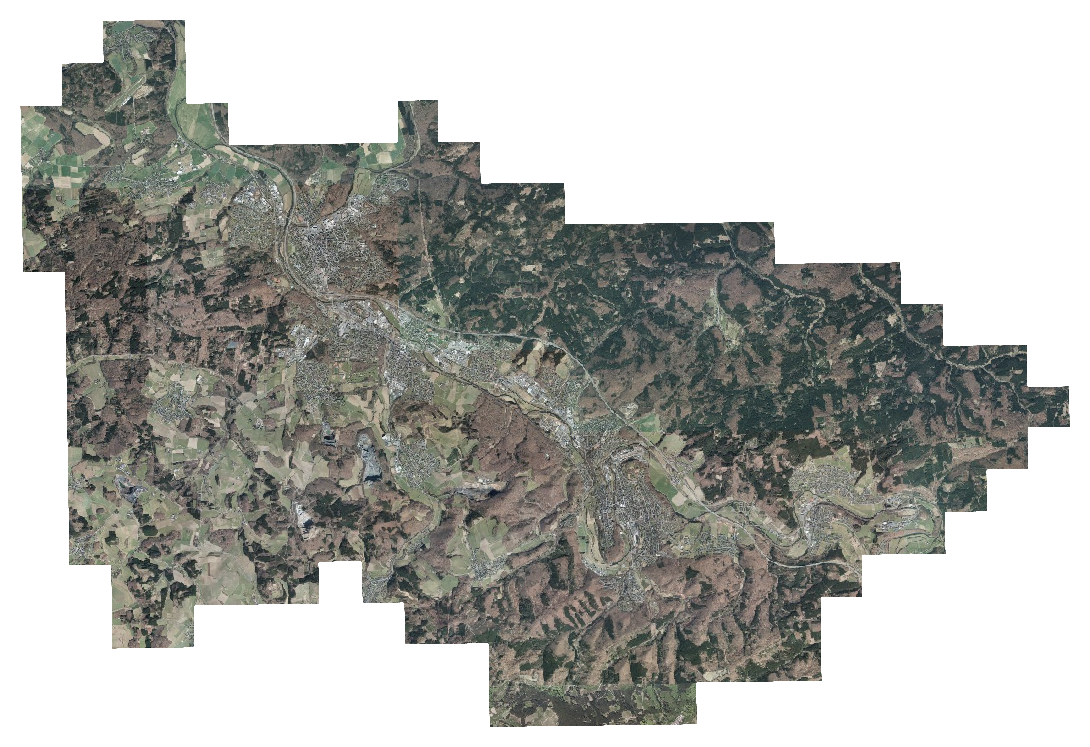
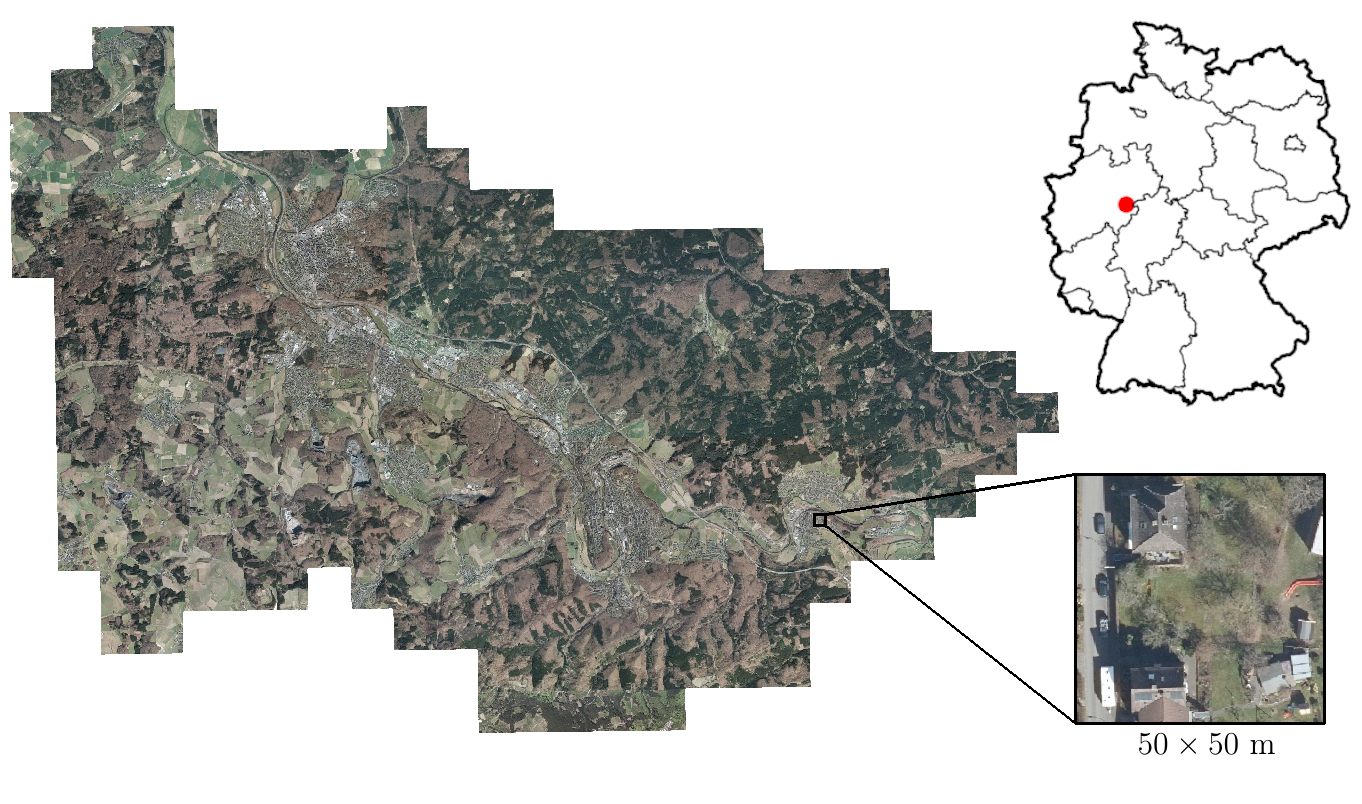
latex: replace DOP figure in data analysis section

diff --git a/latex/content/data_analysis.tex b/latex/content/data_analysis.tex
@@ -18,7 +18,16 @@ The data for the maps is collected by airplanes with special cameras pointing ve
 \subsection{Getting the dataset}
 Both the DOP and NIR datasets are provided by the Ministry of the Interior in a few different ways. To get a quick overview, there is an online viewer\footnote{Available at \url{https://www.tim-online.nrw.de/tim-online2/}.} for most of the map types. For some specific maps like the DOPs they host a Web Map Tile Service, which allows to access the data with geographic information systems (GIS) like QGIS\footnote{QGIS is a free and open-source GIS application. For more information see \url{https://qgis.org/.}}. Since these options require a continuous network connection, it is preferred to get a local copy of the dataset and work with that.
 
-For that purpose, the GEOportal has a separate download section. There you can choose the regions and map types you need and download them in a compressed bundle. The bundle contains map tiles in the JPEG 2000 file format. This is an image format that has a dense compression rate and directly contains the georeferencing information for each tile. To have a wide range of terrain types with broad variety included, we use the data for the Municipality of Arnsberg and its surroundings. This concludes to a download size of $11.5~\text{Gigabytes}$ with around $248.49~\text{km}^2$ of terrain, where each pixel represents a $10\times 10~\text{cm}$ square in scale.
+For that purpose, the GEOportal has a separate download section. There you can choose the regions and map types you need and download them in a compressed bundle. The bundle contains map tiles in the JPEG 2000 file format. This is an image format that has a dense compression rate and directly contains the georeferencing information for each tile. To have a wide range of terrain types with broad variety included, we use the data for the Municipality of Arnsberg and its surroundings. This concludes to a download size of $11.5~\text{Gigabytes}$ with around $248.49~\text{km}^2$ of terrain, where each pixel represents a $10\times 10~\text{cm}$ square in scale. Figure~\ref{fig:dop_rgb_all} shows the color bands of the whole dataset and its location in Germany.
+
+To show the granularity of the data, one region is enlarged and shown in higher resolution. One pixel in the dataset represents $10\times 10$ decimeters in real-world scale. As can be seen in figure~\ref{fig:dop_rgb_all}, it is easily possible to detect objects like trees, cars or buildings with such a high resolution. Therefore, the data provides sufficient information for the segmentation of land usage.
+
+\begin{figure}[h]
+    \centering
+    \includegraphics[width=\textwidth]{images/dop_rgb_all}
+    \caption{DOP Dataset Location and Resolution}
+    \label{fig:dop_rgb_all}
+\end{figure}
 
 It is possible to download both DOP and NIR data together in a single bundle. The JPEG files then contain four channels of pixel information. The first three channels make up the red, green and blue colors for the DOPs. And the last channel provides the scalar output of the NIR spectroscopy scan.
 
@@ -58,15 +67,6 @@ Another major configuration is the \emph{spatial reference id} (SRID). It also h
 After all GeoTiff files are imported, the Python script creates a Generalized Search Tree (GiST) index for both tables. This takes into account the spatial character of the data and thus speeds up spatial queries like merging and intersecting on the tables significantly. For the same reason, the Python script also enforces some constraints on the raster columns of the tables. This makes sure that all the raster tiles share common properties like tile size, SRID and the number of raster bands.
 
 As a last step of the Python script, it creates one last table named \texttt{geom\_bounds}. This table holds a single PostGIS geometry object defining the exact boundaries of the raster tiles. That allows for a quick way to calculate if a given region is included in the spatial extents of the raster without having to process the whole raster table all the time.
-
-Figure~\ref{fig:dop_rgb_all} shows the color bands of the whole dataset and its location in Germany. To show the granularity of the data, one region is enlarged and shown in full resolution. One pixel in the dataset represents $10\times 10$ decimeters in real-world scale. As can be seen in figure~\ref{fig:dop_rgb_all}, it is easily possible to detect objects like trees, cars or buildings with such a high resolution. Therefore, the data provides sufficient information for the segmentation of land usage.
-
-\begin{figure}[h]
-    \centering
-    \includegraphics[width=\textwidth]{images/dop_rgb_all}
-    \caption{The DOPs in the dataset}
-    \label{fig:dop_rgb_all}
-\end{figure}
 
 \subsection{Preparing the labels}
 \label{sec:prepare_labels}
